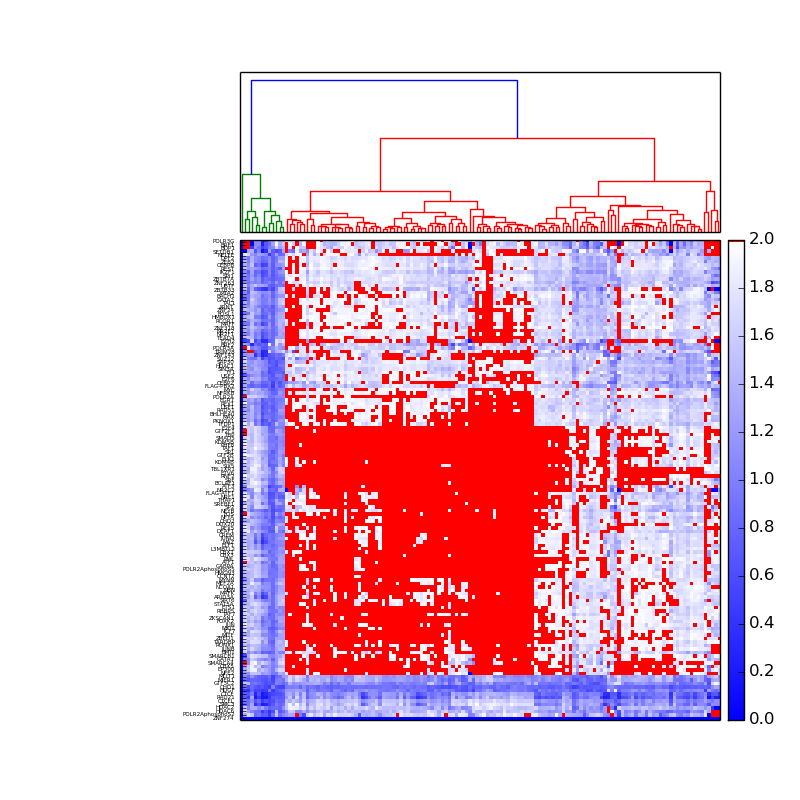
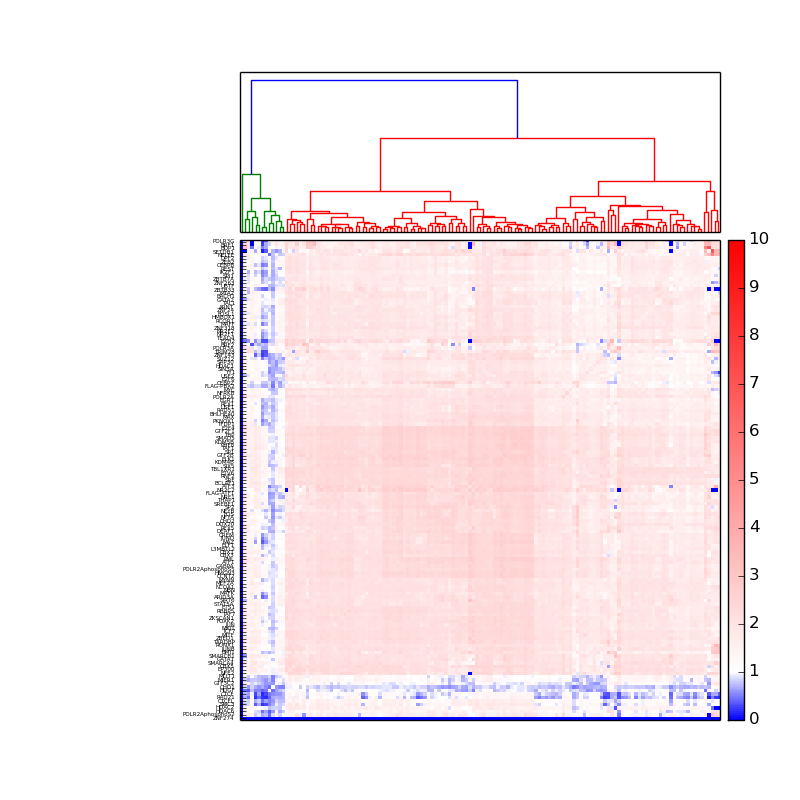
updates

diff --git a/src/create_matrix_from_bidirectional.py b/src/create_matrix_from_bidirectional.py
@@ -118,7 +118,7 @@ def run():
 
     # Compute and plot first dendrogram.
     D = vectors
-    fig = pylab.figure(figsize=(8,8))
+    fig = pylab.figure(figsize=(12,12))
     #ax1 = fig.add_axes([0.09,0.1,0.2,0.6])
     #Y = sch.linkage(D, method='ward')
     #Z1 = sch.dendrogram(Y, orientation='right')
@@ -132,19 +132,19 @@ def run():
     ax2.set_xticks([])
     ax2.set_yticks([])
     c = mcolors.ColorConverter().to_rgb
-    rvb = make_colormap([c('blue'), c('white'), 0.1, c('white'), c('red'), 1, c('red')])
+    rvb = make_colormap([c('blue'), c('white'), 0.6, c('white'), c('red'), 1, c('red')])
     # Plot distance matrix.
     axmatrix = fig.add_axes([0.3,0.1,0.6,0.6])
     idx1 = Z2['leaves']
     idx2 = Z2['leaves']
     D = D[idx1,:]
     D = D[:,idx2]
-    im = axmatrix.matshow(D, aspect='auto', origin='lower', cmap=rvb,vmax=10,vmin=0)
+    im = axmatrix.matshow(D, aspect='auto', origin='lower', cmap=rvb,vmax=6,vmin=0)
     axmatrix.set_xticks([])
     #axmatrix.set_yticks([])
     axmatrix.set_yticks(range(0,vectors.shape[0]))
     axmatrix.yaxis.tick_left()
-    axmatrix.set_yticklabels([labels[val] for val in idx1],minor=False,fontsize=4)
+    axmatrix.set_yticklabels([labels[val] for val in idx1],minor=False,fontsize=10)
     
     # Plot colorbar.
     axcolor = fig.add_axes([0.91,0.1,0.02,0.6])
